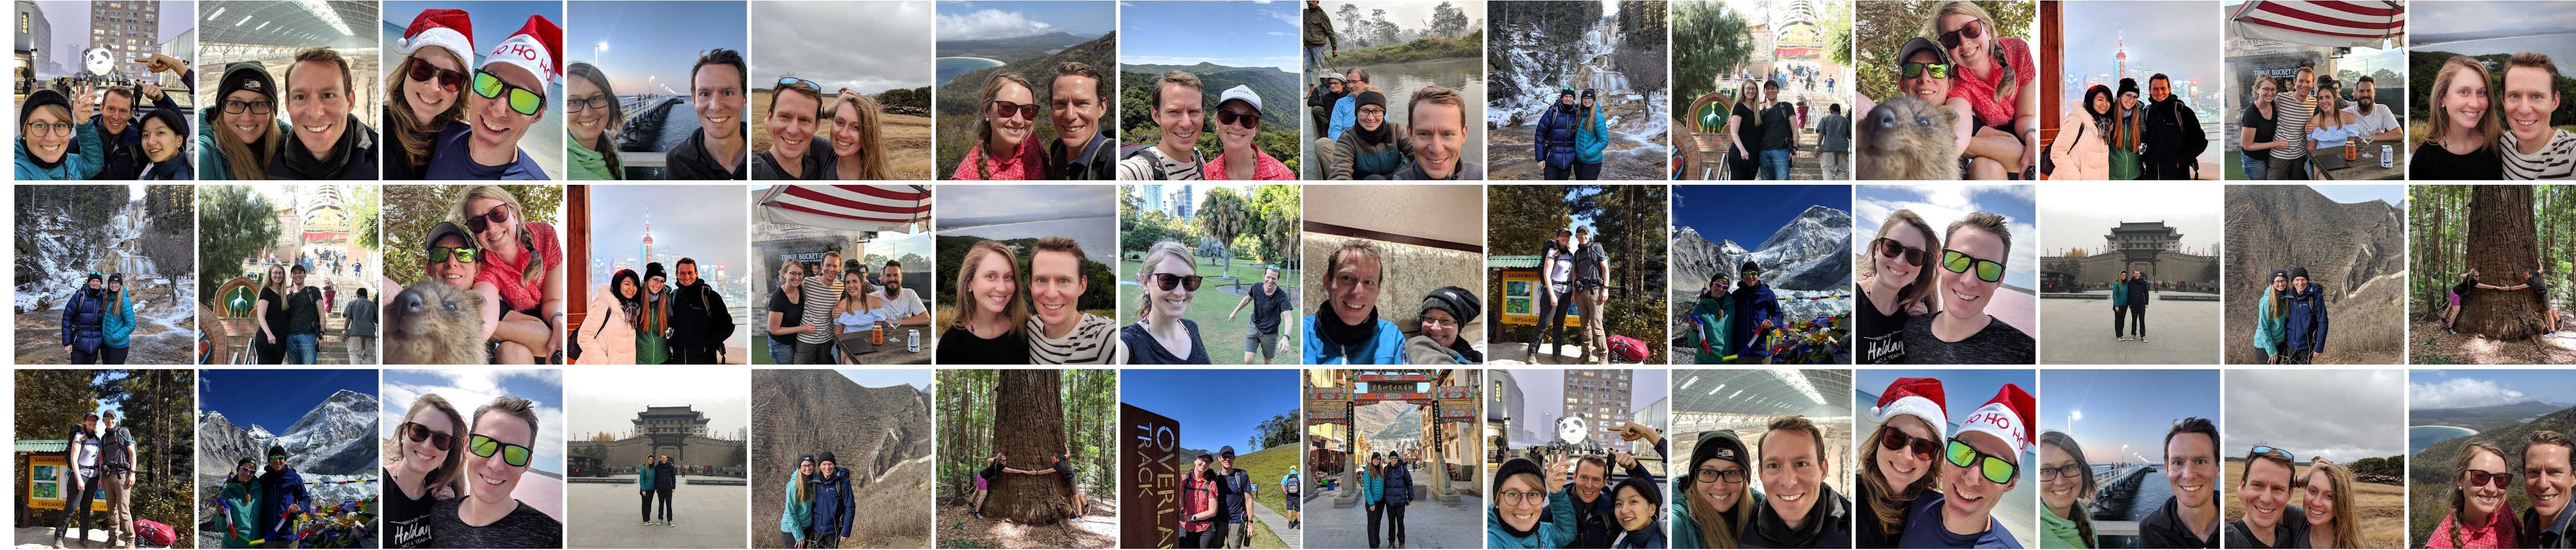
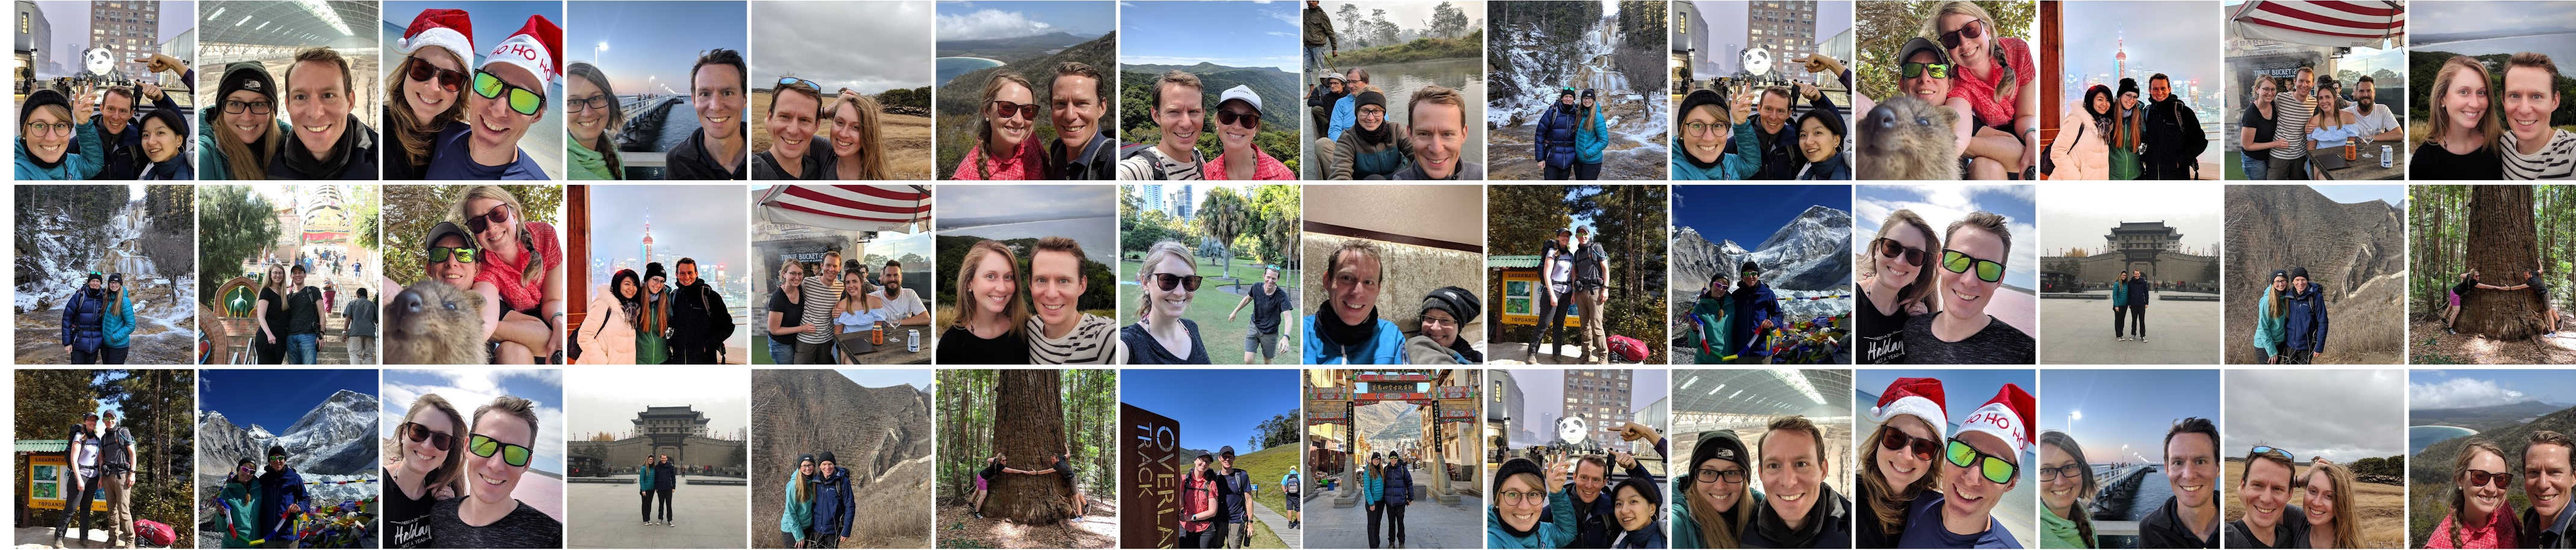
exchange pictures

Changed region(s): [[0.6244, 0.0, 0.7181, 0.3385]]

diff --git a/public/page/tasmanien/tasmania-5/index.html b/public/page/tasmanien/tasmania-5/index.html
@@ -289,9 +289,7 @@ if (!doNotTrack) {
 
 <p><img src="https://lh3.googleusercontent.com/ZvytDkFfFH--XlXFAO8hH_xcBe3xTmnd7qucsSvnvYtCAyoeZzJvrA1m956u10IPHVBR-1KRQX-RYDOZqU8PpPZIP0rub7weyFH6jxw7zJ6gMEFKtGUFNzxYdyHR7jBpswgWnF9nyho=w1920-h1080" alt="" /></p>
 
-<p><img src="https://lh3.googleusercontent.com/0sbIOSkcVZ4jYyZiHjZDR6k3Bb1Y8GJ8KIwxum6onSmeM9cWvYlYDBuZM5MpIosLjSZL4FfEFbq26owJuW32nbcrLiQmOp1fUOyge_T9AvIp4XrI9zNqruNSYVdq57suZKzZJLNhPbI=w1920-h1080" alt="" /></p>
-
-<p><img src="https://lh3.googleusercontent.com/d9wbhuAH1AdFnZHJIB53MLLxSBYWDx_3pqgpmGMkltmBynBb1wkygKKZO2rYfCAXheJt6nlExZDBYrWB4mJztEXHifXlWcX4d7auUsgRax1LwtFMwq7abLhKdQMLWOR4wesqfoK5nDo=w1920-h1080" alt="" /></p>
+<p><img src="https://lh3.googleusercontent.com/RFLUgOf5DbWWOvL0eEVzq_jNXEE8qcphkYll_BfoZ1vPd8qiTKlDDbregoJdOi2_SQpKseMvfnZfIa0TDsRA3CEmiJZub7tZi7zx-aph7RD_Zj0nUhq1BlSANAmCRC4qtR2TQKnmqKg=w1920-h1080" alt="" /></p>
 
 <p>Anschliessend fahren wir Richtung Low Head, wo wir heute abend schlafen wollen. Unterwegs fahren wir durch das Tamar Valley. Hier gibt es grüne Weiden und Wälder, erinnert etwas an eine trockene Mischung aus Irland und Frankreich. Der Weg führt uns durch eine Landschaft welche zwischen schweizähnlichen Hügeln, Regenwäldern mit Riesenfarnen und Irischen Landschaften abwechselt. Viele Pferde, viele weidende Kühe; Wein; Farmen;
 Wir stoppen bei der Pyengana Käserei im Tamar Valley.</p>

diff --git a/public/page/tasmanien/tasmania-4/index.html b/public/page/tasmanien/tasmania-4/index.html
@@ -274,7 +274,9 @@ if (!doNotTrack) {
 
 <p>Um Mittagszeit ist es soweit und wir fahren in den Nationalpark und zum Carpark für die Wineglass Bay Wanderung. Mehrere Einparkmanöver später (man sind diese Parkplätzchen hier schmal) stehen wir auch endlich dort und machen uns an den 1-stündigen Aufstieg. Am Parkplatz ist ein Wallaby unterwegs und versucht Fressen von den Touristen zu ergattern. Süss!</p>
 
-<p><img src="https://lh3.googleusercontent.com/5SUZ52-8t15o7jWtipqgefYcQeuR4tFPN-84BdDjMuQ6PIDEeh6AdNa7QyabVn-5hB-3U_3NDri0_yCIkD-5D6HEbsuWEhlN9ifS-QdGnj_umIC4yRzrEdRq7xJgts2kSkp-7kBSATw=w1920-h1080" alt="" /></p>
+<p><img src="https://lh3.googleusercontent.com/3fSJHGdH5InP2c7MS1rvS76FTP5ZrcNS1cJgHfFnClDVVcCQe-fUkq6AowpLq2_ltAEgYkKKLw7Jmb3eH9-ba8Zn78_phufeVdmJ7QW1B-AAO0HNQ9Dy7BTxV90w0-GT4vN0NwOUCqE=w1920-h1080" alt="" /></p>
+
+<p><img src="https://lh3.googleusercontent.com/Epj6y2TaD6PXr0aeNn-I1WHnBuYlSwaoXzrkvLBWLyeor7BUmc8LMhGb4tO1P8wcmo342qaEsO9vAYbcyxGbe_8yL65kvtefg5ZEIEX_J6MK9_QC7_lP3RmQgTXL8p0aT89_W-aZGcU=w1920-h1080" alt="" /></p>
 
 <p>Wir müssen einen kleinen Pass zwischen zwei Bergen besteigen um den Aussichtspunkt über die Bay zu erreichen. Zunächst haben wir einen tollen Blick über Coles Bay, mit den Felsen und Bäumen im Vordergrund. Mit Sonnenschein wirkt das ganze schon ganz anders als noch am Vortag.</p>
 

diff --git a/tmp/2019-01-19_berrys-grindelwald-devils.md b/tmp/2019-01-19_berrys-grindelwald-devils.md
@@ -10,6 +10,33 @@ bigimg: [{src: "https://lh3.googleusercontent.com/F9evv8BcwgERy8bzUQ4w9nVjb4TMrM
 ---
 
 #### 19.Januar Tamar Valley - Cradle Mountain
+![](https://lh3.googleusercontent.com/38yfdLgsjVXKnTdiE6I77fT19nNZNDJc0l-wCKSfnVBzTJwALq15ADrgoXVQC92qzL4aYKV1YW60JsrNyMCqKcwUKaDT9t1wylGEtbuj5PW08T6DSMS8osArY8fUvKVs-sSbwMyJL5A=w1920-h1080")
+![](https://lh3.googleusercontent.com/00mB7orcesjCWRl_3gJh1eSeZK0A2cKzPOCqN884ZHcZn9MmPpDsldSgwFpxcfi9TfO1pF_N9kVmzrJ2ItL1HbXBavK3nMq9pYtEct4iuvU9X2nfUWUZnEKkNDTHa4_o1dcxSFyNE3o=w1920-h1080")
+![](https://lh3.googleusercontent.com/EXlFb4_EknRUONluq-WG1JVgVvfBfnLk6Hk7jJZCng-1aQ9NaGGdn4IjWNfuFLACEiWugULviYUXoYYx6pB5Ih3_KDLONnmrTkwb1hkyjV5hukxjfNz8YvmUQqpgO88RPzk5oyHy-sY=w1920-h1080")
+![](https://lh3.googleusercontent.com/eyA47xsm1VQLhlsOttipRohCcmBax7gcbjAcfykr8myAxoE9K9Ll4Uw0NhObVTZLBY_BOPv840rZYyFIhHcMT8rcm0qoTJ2q9i1CJrpRGcy1urEsIvmi_wGFT9MZFTTJZgWjmBfS0xY=w1920-h1080")
+![](https://lh3.googleusercontent.com/VsfWNeMZidr4KPOSUoUj55GEs2VUcb_zymCMXr2eVAHx8Pwk7MQQWfrjc0GE0LA89JfuOK_ptCRbg7-S6bXzoVlAmo6bCkwdFAJtbvYINEVwi4I4tI8fHMPU8GEWNQ2jDnL-yNUy_Cg=w1920-h1080")
+![](https://lh3.googleusercontent.com/cDR4uER7DfDfQlNaEwyjelM-Lkpdlxqp-wJqejX_cddoLhwbX_Nl0jI8XJ-9MqpNyQeDmEL1yAEHieawNofeZtqDLbmCQJXxXLQUQoFif6tb9vGwf8cw41aQ9EvtyirrO0pCEttMcYA=w1920-h1080")
+![](https://lh3.googleusercontent.com/pAT04vjLekAoqLzDeTTIf9k-4TWOx6VffWkL3FyvUfcsHLdB-Q5ZTZ8Rn9QR5I1xizdjS5lBS7zRF0_IZuwDkJXGVgW0YBU5a-9yvQ9ig4ZljVKkzewOfhWuvunWCmZVl0uS5Y30u10=w1920-h1080")
+![](https://lh3.googleusercontent.com/At-0yrZZAQT4RsvicEz34ZPYQao7ndhReGc9zcZFec8z_tDygsYikgtV2LJxytsunSCkqlMYCL4BqYMWgQEBMfa2TkzaPmTrI0Ta9zaVu2lAOTL7vGdlDqPurjdhnmqQyBAfoKf9kTI=w1920-h1080")
+![](https://lh3.googleusercontent.com/F6tL5K6yu6lDNwvm4AWBX-XMoco5BnkYJQp9lFTPTbRhriBRmFC3tZe12S88efK97ntkuBRf0jXglAKR4U5d7nqsBdFllXnhGesB08I6151ac5WOeeuHaGeRUs6QcprTFuOApUrhHvw=w1920-h1080")
+![](https://lh3.googleusercontent.com/2oB6VMITql-dcQ6pekCgeFlMi8sgsD6MyUX8IYa1oKuzNB4zi4apfL0HVjsiirfiXwtN39TOZCCiQjvOXhq6kIUhrvd99QBht9RUilzzCOt9rbey72ku_ws8v7eWEB7Sf3TwewzN4Bo=w1920-h1080")
+![](https://lh3.googleusercontent.com/ziAGgTOI2pCNujUfNhok8EsWtxCVb4JzMG_DjF4hOu1fSjuT5I2h9KFOrqa-BaXBUNY-xHGKcNnr0s3XWDfLJlNTPPk8zQIlK-sdgnrwW-RWpxgG1KTpWGOEPfHxaDUN5_CUFo5J7WA=w1920-h1080")
+![](https://lh3.googleusercontent.com/584H_RJYESvRPm-Ce-sw5Tg9DHB1vzYQgvQuQvUoecHi-DBJipSOc56scRk-tywcPH05-gQyDUwEvIUzOjg7o2hAGp8z_jKay-8ytxMMRhwqWqyRAzJ1qw3OF_RqGn6QKpHsOlBo5iQ=w1920-h1080")
+![](https://lh3.googleusercontent.com/w6EvP7fE_28fyMcwr2PeNvAHjxzGiYs9KkFBSoENwYRHteh8lBVTYeTigdNb7tfl8k2RN4S8Ay5zYkaU-vWDwnqW86nN1rOSR_5wiE6R_MFk6YGTtfp3zr6HaS50k2YtH0ErmkiXfQw=w1920-h1080")
+![](https://lh3.googleusercontent.com/a1CchA0itQNsE16b1vQ4bKqfMf2dgT1r8FTNfBpPTOsFg43yTTRXpZ11RKevBfgJixihEWNi8VMYENKV8iAxgz5WifCjxvFis647sMCYv0bK7d1VpPe2_egThj9lyhkvqz62FHGjiOs=w1920-h1080")
+![](https://lh3.googleusercontent.com/n-K5Oa2eyjkn59kvmIIbzxKIyVB5FVVZwExi3r9RZ5QJx6XbfntfqmDt2Ldc7VylL1-tIS1ftwvf-u01KCE82yGmB2A867SaAPxcBEsSXJ0stUYNu1fLyyO1nw0ykWoKrDHNCGgMfuU=w1920-h1080")
+![](https://lh3.googleusercontent.com/8Us3P8NBXuR2ca9tzS_y3ue12anihioc6nskB39UklrTo2x8kZtBEg_g4SV6Vuld1nPZ-USCWwYjv_9PDH8r4RYFqXzv7LLElcDI5DbZlmT8B3QRq92ZqHPXXQR_TQTnULqxIAc27Sw=w1920-h1080")
+![](https://lh3.googleusercontent.com/7NGrIV9eKNP4HqlINcnGkd2_SSMxHJ277lyGWCrsJ6QraTTNR1V1sd0i6dKo03jV3xWQJye7FH4opH5ADBHfVR4RVQ_iobmfYTIS3tLDkvex-QKwjqjmG5JHMzN135Hkb52ri7xtaH4=w1920-h1080")
+![](https://lh3.googleusercontent.com/DBiiRouzsWf6tD0h7rz7hK90pxDDoQcTjAhkcHd6-HCGdxaxcdnP_38tm__O0_a6OXfYFqZzmPfQeT-RUujIe4h_7rkedGbJdG-SgIQsUZa47W4KuwPQzCLqi7pr6qn6enxXP-pX4Uo=w1920-h1080")
+![](https://lh3.googleusercontent.com/u2ux5kC-KtieqdCXtb3YAlTvceYpqgGBgv2tsJ9MvPUKMkSvMxd5L2Ay6zmY7moMmwjeotf1RcW7yHo1IcKwmIOdKKyML3aw662NYjUAmq9LOlJ8yA3CxuDOYV1xNIjq0n1gKX9HlSg=w1920-h1080")
+![](https://lh3.googleusercontent.com/gVfbGiDSXRdoHJ-Z1YdFVDKDHQWVY9j01DAYTKC5y_WsgI9Li8wrWSyGsu0oaKuuNOL-Sz_iTS1T-5kS5tMCt6XqnAvdlMWkBWsz7LHoHicRlmTyr9zwR7zvWvSy-d7ZDF8RE0SgaT0=w1920-h1080")
+![](https://lh3.googleusercontent.com/TFm4jJPug6oHlgQ4yJtsCsMmYl_r-OnMM3XP2Cq9v2OFETI1GbRCFgqEe54Dx91hufmYN2UZu1g95enrWJOkRHZWcuSRDDZHXipbzOshRJmNg8PepdbHZmiG9R16h4CE27W835AzktE=w1920-h1080")
+![](https://lh3.googleusercontent.com/SKjqlu80lOO0JbKs6uKPlXwDvH9zj7pCYEJ-u924pXKzfFQZINlTNUeKRSu50T31pSTiAZj1TC9dujH5yLGPwpUpC5IBMmCdFyXxHlOcy7MV3o2ZEUg_LAlUb4zgcrxZXWJ1ldfX5y8=w1920-h1080")
+![](https://lh3.googleusercontent.com/AaoPb3cY8E-xt_YGotfVBtdW6ZW7iKemPqEbbUqdKl6ZUXPYCiza81meZOQu_7TMcb4pMnUh5F-TKe4my6RJqO3zBs8ferjxin2dLFCd3dvcCEQht69ZAs_s4jkiiEOMjl-rdXtQljc=w1920-h1080")
+![](https://lh3.googleusercontent.com/Q7FV_kULyUdIBh2sjVEC-Ya4JcV5yj-64S5ZBtzpr0y20c8Q2z8WvC_cTTLm8HwGWowoZb6N3XOFYI_aLjb8tNK_gqrQG3iTyvtKxjhpHSg5sVSk3ioCmGTjPZ1K2deLJeijHshHXjY=w1920-h1080")
+![](https://lh3.googleusercontent.com/jyJDp05_alcAA8DxntUSw1P8JgeCoZtoaE6eY4cVequVeSL2Nvgtz6rBGlhC9RjDNLn9du5CQS_czuZkVb8YtzreWFg9n4b_HqNRAK8GovZBH1RGoOIqw_nMnQjHWig_KQk2etJzO-w=w1920-h1080")
+![](https://lh3.googleusercontent.com/k94idJ3qRRJFSXlDPWMj3f0HoDHPh7_GGRMp1h97Pn7oZfs4QxKY_JdMIKukirEVUFSLXI3Uoq--fsMUmahB_D24q5SS3R0Stc3o2-5LFwWhmdDQepw0s_RvnULnwbvWJ7dZ_LN4OwU=w1920-h1080")
+
 Wieder werden wir durch wunderschöne Sonnestrahlen aufgeweckt. Heute geht es durchs Tamar Valley mit einigen Stops bis zum Cradle Mountain. Erster Stop nach 30 Minuten: Hillwood Berry Farm. Sie ist recht beliebt, aber die Leute verlaufen sich gut auf dem Gelände. Man kann dort selbst Erdbeeren, Blaubeeren und Himbeeren pflücken und dann natürlich zahlen. Machen wir alles im strahlenden Sonnenschein (irgendwie dachten wir, heute müssten wir uns nicht eincremen.... es waren eigentlich keine Aussenaktivitäten geplant :)!!). Wir sehen weiter weg die “echten” Pflücker, die diese Arbeit für Geld machen. Sehr hart! Ausserdem gibt es für uns sehr leckere Schoko-Erdbeeren und Erdbeerensmoothie. Wir überqueren den Tamar River und weiter gehts eine Viertelstunde zur Goaty Hill Wineyard. Erscheint auf den ersten Blick etwas unscheinbar, aber hat es in sich. Man kann tolle Weine testen. Das Winetasting ist diesmal nicht kostenlos, der Preis kann aber angerechnet werden wenn man Wein kauft (das machen wir ja eh immer, diesmal einen tollen Riesling). Es ist eine super Atmosphäre, sehr nette Angestellte, tolles Wetter, einen Live-Sänger auf der Veranda mit Blick über die Weinfelder. Wir geniessen noch einen Dip-Teller mit dem besten Sweet Potatoe Dip den wir jemals gegessen haben und sind wieder unterwegs - vielleicht noch ein bischen fröhlicher als vorher :)!
 Als nächstes steht ein sehr witziger Stopp auf dem Programm: Das Swiss Village Grindelwald. Kurioserweise gegründet von einem Holländer (der durch einen Schweiz-Urlaub dazu inspiriert wurde, aber trotzdem....). Ein richtiges kleines (touristisches) Schweizerdorf. Ein Stadttor mit Turm, ein Dorfbrunnen, ein Café, eine Bäckerei, die Alpenrose Bar... für ein “Plastik dorf” ist es recht gut gemacht. Tim fühlt sich gleich zu Hause und auch Miri hat einen kleinen Anflug von “daham”. Haben wir etwa Heimweh? Neeeee....aber schade ist es schon, dass es in der Bäckerei wieder kein gutes Brot oder Zopf gibt. Dann müssen wir uns mit einer (sehr unschweizerischen) Schwarzwälder Kirschtorte zufrieden geben.
 Wir stoppen noch zusätzlich bei einem Woolworth und decken uns ein für den Nationalpark, dort wird es keine grossen Supermärkte mehr geben. Wir schweben im siebten Himmel als wir sehen, dass es dort original Comté gibt und dieser auch noch heruntergesetzt ist und somit nicht teurer als unser Käse bei der Käsefabrik von gestern. Wir kaufen 3 Packungen ;)!

diff --git a/themes/beautifulhugo/exampleSite/content/post/2017-03-20-photoswipe-gallery-sample.md b/themes/beautifulhugo/exampleSite/content/post/2017-03-20-photoswipe-gallery-sample.md
@@ -5,6 +5,15 @@ date: 2017-03-20
 tags: ["example", "photoswipe"]
 ---
 
+{{< gallery width="500px" height="200px" caption-position="bottom" 
+  {{< figure src="/img/plates/china.jpg" caption="China" >}}
+  {{< figure src="/img/plates/westkueste.jpg" caption="Westküste Australien (Beiträge folgen)" >}}
+  {{< figure src="/img/plates/ostkueste.jpg" caption="Ostküste Australien (Beiträge folgen)" >}}
+  {{< figure src="/img/plates/tasmanien.jpg" caption="Tasmanien" >}}
+  {{< figure src="/img/plates/neuseeland.jpg" caption="Neuseeland" >}}
+{{< /gallery >}}
+
+
 Beautiful Hugo adds a few custom shortcodes created by [Li-Wen Yip](https://www.liwen.id.au/heg/) and [Gert-Jan van den Berg](https://github.com/GjjvdBurg/HugoPhotoSwipe) for making galleries with [PhotoSwipe](http://photoswipe.com) . 
 
 {{< gallery caption-effect="fade" >}}
@@ -12,6 +21,18 @@ Beautiful Hugo adds a few custom shortcodes created by [Li-Wen Yip](https://www.
   {{< figure thumb="-thumb" link="/img/sphere.jpg" caption="Sphere" >}}
   {{< figure thumb="-thumb" link="/img/triangle.jpg" caption="Triangle" alt="This is a long comment about a triangle" >}}
 {{< /gallery >}}
+
+{{< photo href="/photos/bologna/large/photo_1_1337x1600.jpg"
+largeDim="1337x1600"
+smallUrl="/photos/bologna/small/photo_1_535x800.jpg"
+smallDim="535x800"
+alt="Example Alt Text"
+thumbSize="256x256"
+thumbUrl="/photos/bologna/thumb/photo_1_256x256.jpg"
+caption="Example Caption"
+copyright="Example Copyright" >}}
+
+
 
 <!--more-->
 ## Example

diff --git a/content/page/tasmanien/2019-01-18_bay_of_fires-pinguins.md b/content/page/tasmanien/2019-01-18_bay_of_fires-pinguins.md
@@ -34,9 +34,7 @@ Die grossen Steine am Strand sind mit roten Flechten überzogen, ein toller Kont
 
 ![](https://lh3.googleusercontent.com/ZvytDkFfFH--XlXFAO8hH_xcBe3xTmnd7qucsSvnvYtCAyoeZzJvrA1m956u10IPHVBR-1KRQX-RYDOZqU8PpPZIP0rub7weyFH6jxw7zJ6gMEFKtGUFNzxYdyHR7jBpswgWnF9nyho=w1920-h1080)
 
-![](https://lh3.googleusercontent.com/0sbIOSkcVZ4jYyZiHjZDR6k3Bb1Y8GJ8KIwxum6onSmeM9cWvYlYDBuZM5MpIosLjSZL4FfEFbq26owJuW32nbcrLiQmOp1fUOyge_T9AvIp4XrI9zNqruNSYVdq57suZKzZJLNhPbI=w1920-h1080)
-
-![](https://lh3.googleusercontent.com/d9wbhuAH1AdFnZHJIB53MLLxSBYWDx_3pqgpmGMkltmBynBb1wkygKKZO2rYfCAXheJt6nlExZDBYrWB4mJztEXHifXlWcX4d7auUsgRax1LwtFMwq7abLhKdQMLWOR4wesqfoK5nDo=w1920-h1080)
+![](https://lh3.googleusercontent.com/RFLUgOf5DbWWOvL0eEVzq_jNXEE8qcphkYll_BfoZ1vPd8qiTKlDDbregoJdOi2_SQpKseMvfnZfIa0TDsRA3CEmiJZub7tZi7zx-aph7RD_Zj0nUhq1BlSANAmCRC4qtR2TQKnmqKg=w1920-h1080)
 
 Anschliessend fahren wir Richtung Low Head, wo wir heute abend schlafen wollen. Unterwegs fahren wir durch das Tamar Valley. Hier gibt es grüne Weiden und Wälder, erinnert etwas an eine trockene Mischung aus Irland und Frankreich. Der Weg führt uns durch eine Landschaft welche zwischen schweizähnlichen Hügeln, Regenwäldern mit Riesenfarnen und Irischen Landschaften abwechselt. Viele Pferde, viele weidende Kühe; Wein; Farmen;
 Wir stoppen bei der Pyengana Käserei im Tamar Valley.

diff --git a/content/page/tasmanien/2019-01-17-freycinet.md b/content/page/tasmanien/2019-01-17-freycinet.md
@@ -22,7 +22,9 @@ Wir sind topmotiviert einen 11km-Hike im Freycinet-Nationalpark zur berühmten W
 
 Um Mittagszeit ist es soweit und wir fahren in den Nationalpark und zum Carpark für die Wineglass Bay Wanderung. Mehrere Einparkmanöver später (man sind diese Parkplätzchen hier schmal) stehen wir auch endlich dort und machen uns an den 1-stündigen Aufstieg. Am Parkplatz ist ein Wallaby unterwegs und versucht Fressen von den Touristen zu ergattern. Süss!
 
-![](https://lh3.googleusercontent.com/5SUZ52-8t15o7jWtipqgefYcQeuR4tFPN-84BdDjMuQ6PIDEeh6AdNa7QyabVn-5hB-3U_3NDri0_yCIkD-5D6HEbsuWEhlN9ifS-QdGnj_umIC4yRzrEdRq7xJgts2kSkp-7kBSATw=w1920-h1080)
+![](https://lh3.googleusercontent.com/3fSJHGdH5InP2c7MS1rvS76FTP5ZrcNS1cJgHfFnClDVVcCQe-fUkq6AowpLq2_ltAEgYkKKLw7Jmb3eH9-ba8Zn78_phufeVdmJ7QW1B-AAO0HNQ9Dy7BTxV90w0-GT4vN0NwOUCqE=w1920-h1080)
+
+![](https://lh3.googleusercontent.com/Epj6y2TaD6PXr0aeNn-I1WHnBuYlSwaoXzrkvLBWLyeor7BUmc8LMhGb4tO1P8wcmo342qaEsO9vAYbcyxGbe_8yL65kvtefg5ZEIEX_J6MK9_QC7_lP3RmQgTXL8p0aT89_W-aZGcU=w1920-h1080)
 
 Wir müssen einen kleinen Pass zwischen zwei Bergen besteigen um den Aussichtspunkt über die Bay zu erreichen. Zunächst haben wir einen tollen Blick über Coles Bay, mit den Felsen und Bäumen im Vordergrund. Mit Sonnenschein wirkt das ganze schon ganz anders als noch am Vortag. 
 

diff --git a/content/_index.md b/content/_index.md
@@ -9,7 +9,6 @@ comments: false
 Herzlich willkommen auf unserem kleinen Reiseblog. Wenn du uns auf unserer Reise vom 29. Oktober 2018 bis zum 01. April 2019 von Nepal bis Vanuatu begleiten möchtest, kannst du dies auf dieser Seite gerne tun. Einfach auf das entsprechende Nummernschild klicken und du kommst auf die gewünschten Beiträge :)
  
 #### Reiseberichte
-
 | [Nepal] (page/nepal)                     | China (Beiträge folgen) |
 | ---------------------------------------- | ------------------------------|
 | [![Nepal](/img/plates/nepal.jpg)](page/nepal/) | ![China](/img/plates/china.jpg) |
@@ -17,3 +16,6 @@ Herzlich willkommen auf unserem kleinen Reiseblog. Wenn du uns auf unserer Reise
 | ![Westküste](/img/plates/westkueste.jpg) | ![Ostküste](/img/plates/ostkueste.jpg) |
 | [**Tasmanien**] (page/tasmanien) | [**Neuseeland**] (page/neuseeland/) |
 | [![Tasmanien](/img/plates/tasmanien.jpg)](page/tasmanien/) | [![Neuseeland](/img/plates/neuseeland.jpg)](page/neuseeland/) |
+
+
+
